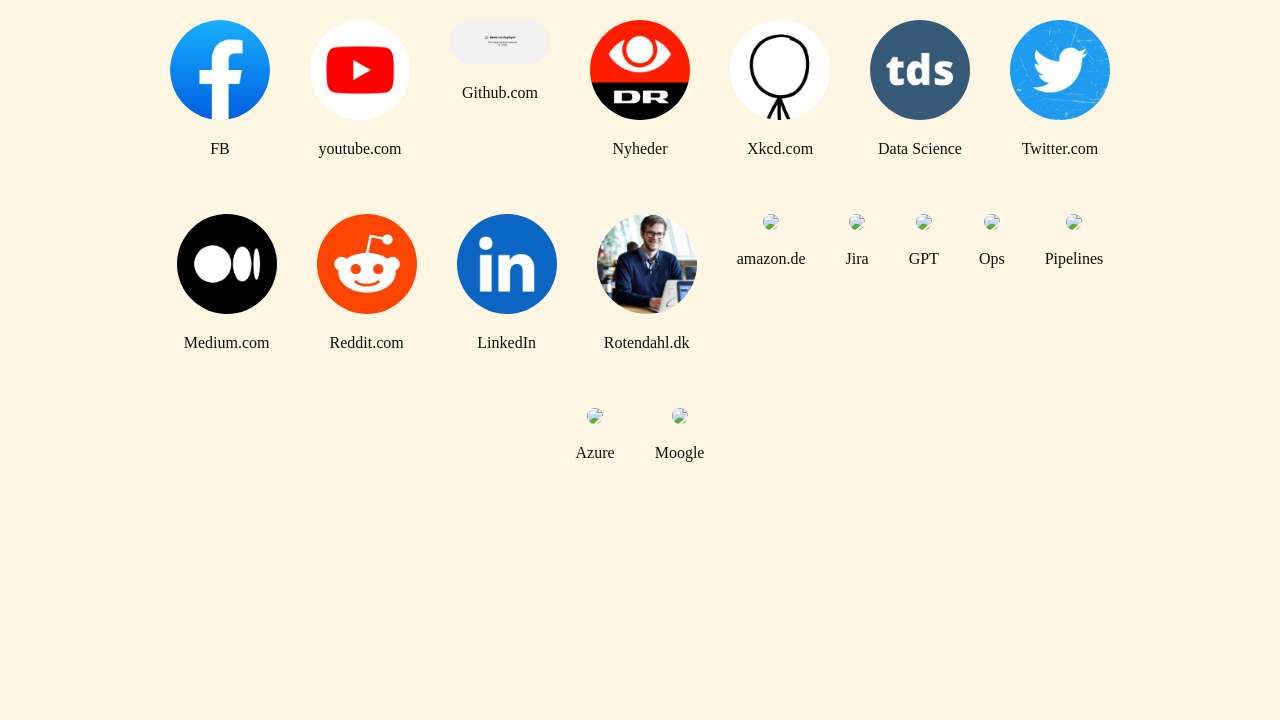
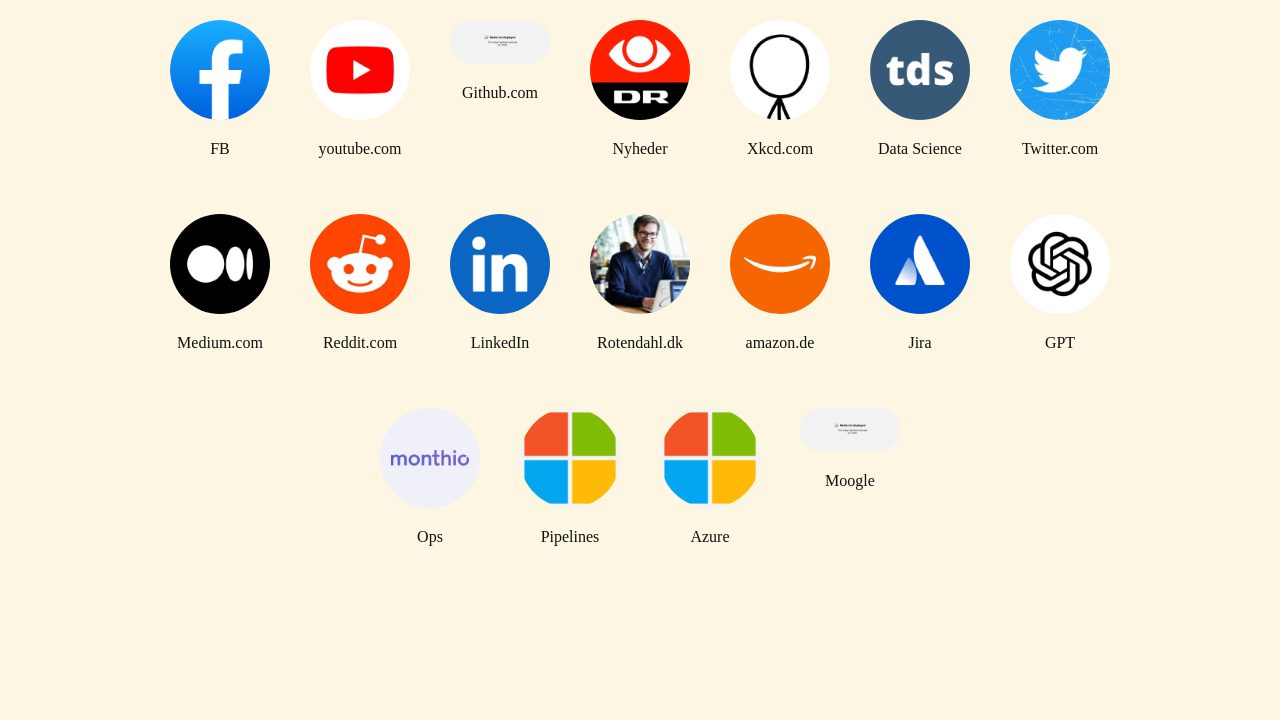
Deploying to gh-pages from @ Rotendahl/Start-Page-Generator@f1758c0116a8499bf7c8359c4ddc6d7a37820a5c 🚀

diff --git a/index.html b/index.html
@@ -54,31 +54,31 @@
       	<p>Rotendahl.dk</p>
       </a>
       <a href="https://amazon.de/">
-      	<img src="https://clearbit.com/logo/amazon.com" />
+      	<img src="https://logo.clearbit.com//amazon.com" />
       	<p>amazon.de</p>
       </a>
-      <a href="https://Jira/">
-      	<img src="https://monthio.atlassian.net/jira/your-work" />
+      <a href="https://monthio.atlassian.net/jira/your-work">
+      	<img src="https://logo.clearbit.com//jira.com" />
       	<p>Jira</p>
       </a>
-      <a href="https://GPT/">
-      	<img src="https://chat.openai.com/" />
+      <a href="https://chat.openai.com/">
+      	<img src="https://logo.clearbit.com//chat.openai.com" />
       	<p>GPT</p>
       </a>
-      <a href="https://Ops/">
-      	<img src="https://grafana.monthio.com/d/ew54Gu9Mz/screen-2-system-health?orgId=1" />
+      <a href="https://grafana.monthio.com/d/ew54Gu9Mz/screen-2-system-health?orgId=1">
+      	<img src="https://logo.clearbit.com//grafana.monthio.com" />
       	<p>Ops</p>
       </a>
-      <a href="https://Pipelines/">
-      	<img src="https://dev.azure.com/monthio/monthio/_build?view=folders" />
+      <a href="https://dev.azure.com/monthio/monthio/_build?view=folders">
+      	<img src="https://logo.clearbit.com//dev.azure.com" />
       	<p>Pipelines</p>
       </a>
-      <a href="https://Azure/">
-      	<img src="https://portal.azure.com/#home" />
+      <a href="https://portal.azure.com/#home">
+      	<img src="https://logo.clearbit.com//portal.azure.com" />
       	<p>Azure</p>
       </a>
-      <a href="https://Moogle/">
-      	<img src="https://github.com/" />
+      <a href="https://github.com/">
+      	<img src="https://logo.clearbit.com//github.com" />
       	<p>Moogle</p>
       </a>
 
